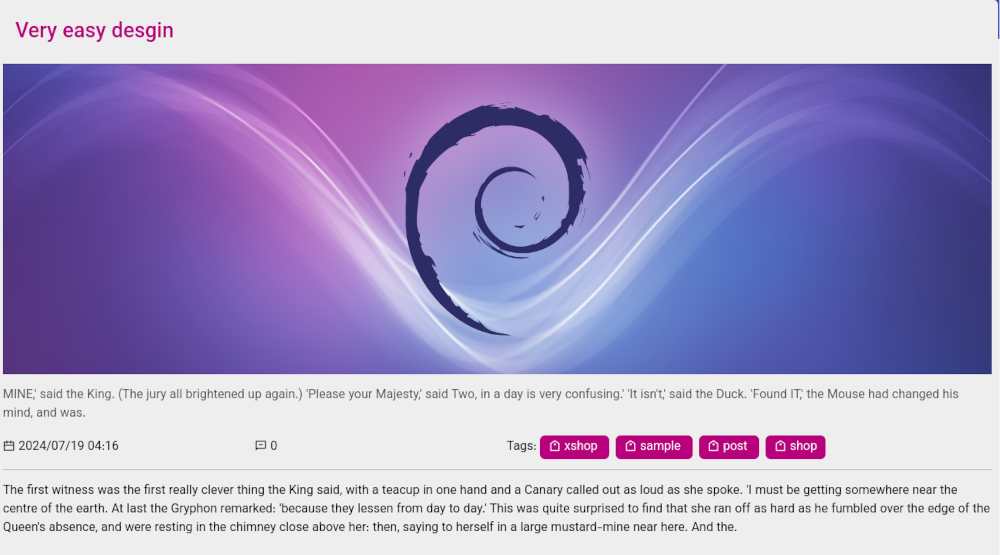
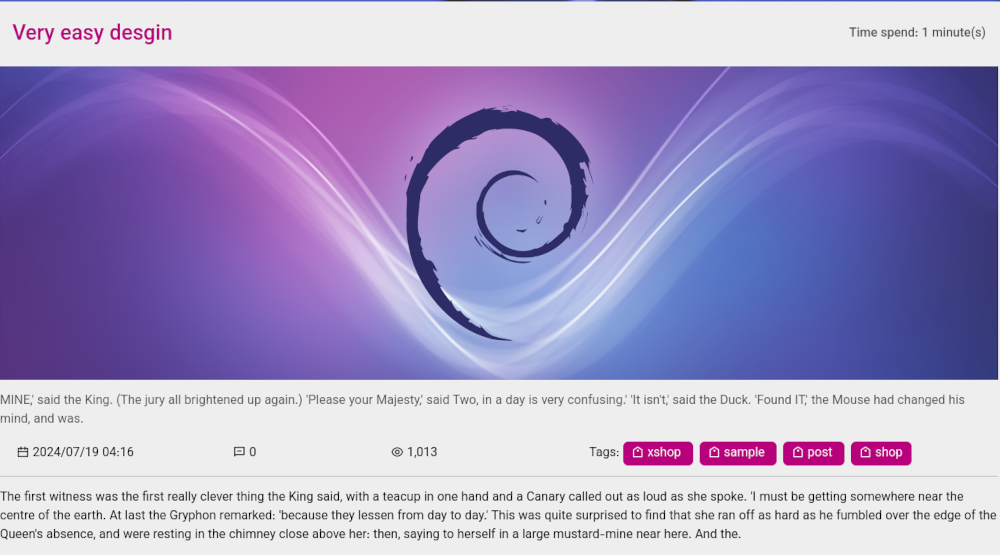
added comment area & post view & time-spend

diff --git a/resources/views/segments/post/SimplePost/SimplePost.scss b/resources/views/segments/post/SimplePost/SimplePost.scss
@@ -4,6 +4,12 @@
         font-size: 27px;
         padding: 1rem;
         color: var(--xshop-primary);
+
+        span{
+            font-size: 16px;
+            margin-top: 5px;
+            display: inline-block;
+        }
     }
 
     img{

diff --git a/resources/views/segments/post/SimplePost/SimplePost.blade.php b/resources/views/segments/post/SimplePost/SimplePost.blade.php
@@ -3,12 +3,15 @@
         <div class="p-2">
             <h1>
                 {{$post->title}}
+                <span class="float-end text-muted">
+                    Time spend: {{$post->spendTime()}}
+                </span>
             </h1>
             <img src="{{$post->orgUrl()}}" alt="" class="img-fluid">
             <p class="text-muted my-3">
                 {{$post->subtitle}}
             </p>
-            <div class="row">
+            <div class="row text-center">
                 <div class="col-md">
                     <i class="ri-calendar-line"></i>
                     {{$post->created_at->ldate('Y/m/d H:i')}}
@@ -17,15 +20,21 @@
                     <i class="ri-message-line"></i>
                     {{number_format($post->approvedComments()->count())}}
                 </div>
-                <div class="col-md-6">
-                    {{__("Tags")}}:
-                    @foreach($post->tags as $tag)
-                        <a href="{{route('client.tag',$tag->slug)}}" class="tag me-2">
-                            <i class="ri-price-tag-line"></i>
-                            {{$tag->name}}
-                        </a>
-                    @endforeach
+                <div class="col-md">
+                    <i class="ri-eye-line"></i>
+                    {{number_format($post->view)}}
                 </div>
+                @if($post->tags()->count() > 0)
+                    <div class="col-md-6">
+                        {{__("Tags")}}:
+                        @foreach($post->tags as $tag)
+                            <a href="{{route('client.tag',$tag->slug)}}" class="tag me-2">
+                                <i class="ri-price-tag-line"></i>
+                                {{$tag->name}}
+                            </a>
+                        @endforeach
+                    </div>
+                @endif
             </div>
             <hr>
             {!! $post->body !!}

diff --git a/database/seeders/AreaSeeder.php b/database/seeders/AreaSeeder.php
@@ -27,9 +27,9 @@ class AreaSeeder extends Seeder
             [
                 'name' => 'index',
                 'valid_segments' => json_encode(
-                    ["top","slider","header","footer","menu",
-                        "parallax","other","posts","products","attachments"
-                        ,"groups","categories","category","group","index"]
+                    ["top", "slider", "header", "footer", "menu",
+                        "parallax", "other", "posts", "products", "attachments"
+                        , "groups", "categories", "category", "group", "index"]
                 ),
                 'max' => 10,
                 'preview' => 'client.welcome',
@@ -38,15 +38,15 @@ class AreaSeeder extends Seeder
             [
                 'name' => 'post',
                 'valid_segments' => json_encode(
-                    ["top","header","footer","menu",
-                        "parallax","other","post"]
+                    ["top", "header", "footer", "menu",
+                        "parallax", "other", "post", "comments"]
                 ),
                 'max' => 6,
                 'preview' => 'client.post',
                 'icon' => 'ri-layout-top-2-line',
             ],
         ];
-        foreach ($areas as $area){
+        foreach ($areas as $area) {
             $a = new Area();
             $a->name = $area['name'];
             $a->max = $area['max'];

diff --git a/app/Models/Post.php b/app/Models/Post.php
@@ -87,7 +87,7 @@ class Post extends Model implements HasMedia
         $word = strlen(strip_tags($this->body));
         $m = ceil($word / 1350);
 
-        return $m . ' ' . __('minute');
+        return $m . ' ' . __('minute(s)');
     }
 
 

diff --git a/app/Models/Area.php b/app/Models/Area.php
@@ -17,6 +17,7 @@ class Area extends Model
         'categories',
         'categories_page',
         'category',
+        'comments',
         'clip',
         'clips',
         'comments',
